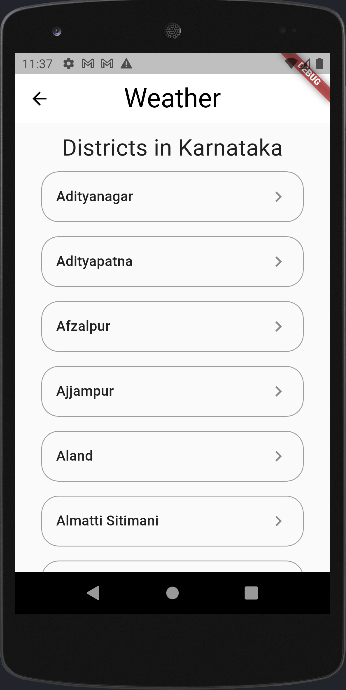
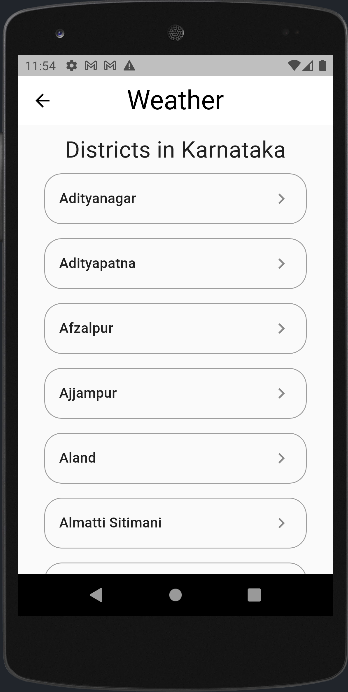
README.md updated

diff --git a/lib/main.dart b/lib/main.dart
@@ -11,6 +11,7 @@ class MyApp extends StatelessWidget {
   @override
   Widget build(BuildContext context) {
     return MaterialApp(
+      debugShowCheckedModeBanner: false,
       title: 'Weather',
       theme: ThemeData(
         useMaterial3: true,

diff --git a/README.md b/README.md
@@ -58,7 +58,8 @@ A flutter application that allows the user to view the weather details of a sele
 | `apiKey`      | `string` | **Required**. API key generated by OpenWeatherMap |
 | `city` | `string` | **Required**. Name of city |
 
-
+## Flow Chart
+![img_3.png](img_3.png)
 
 ## Screenshots
 ![img.png](img.png)
